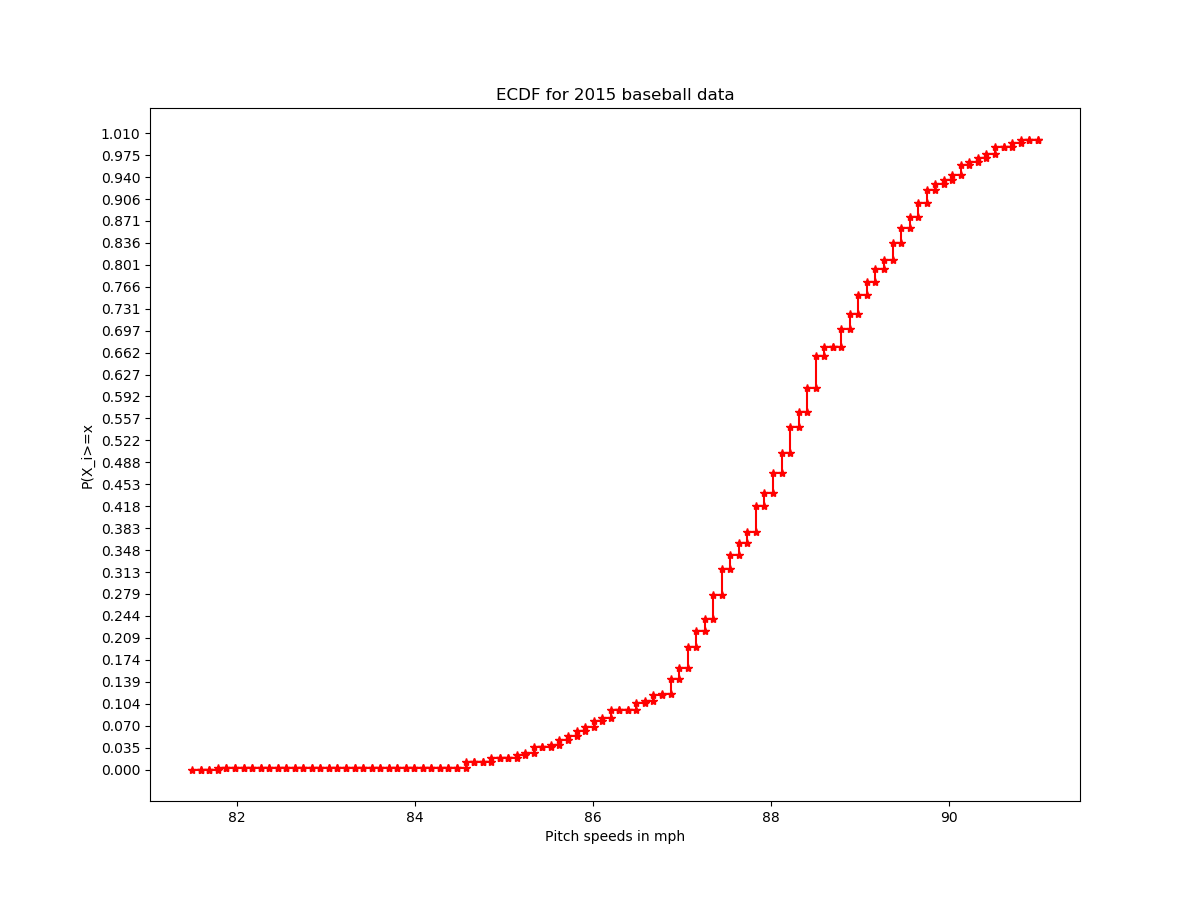
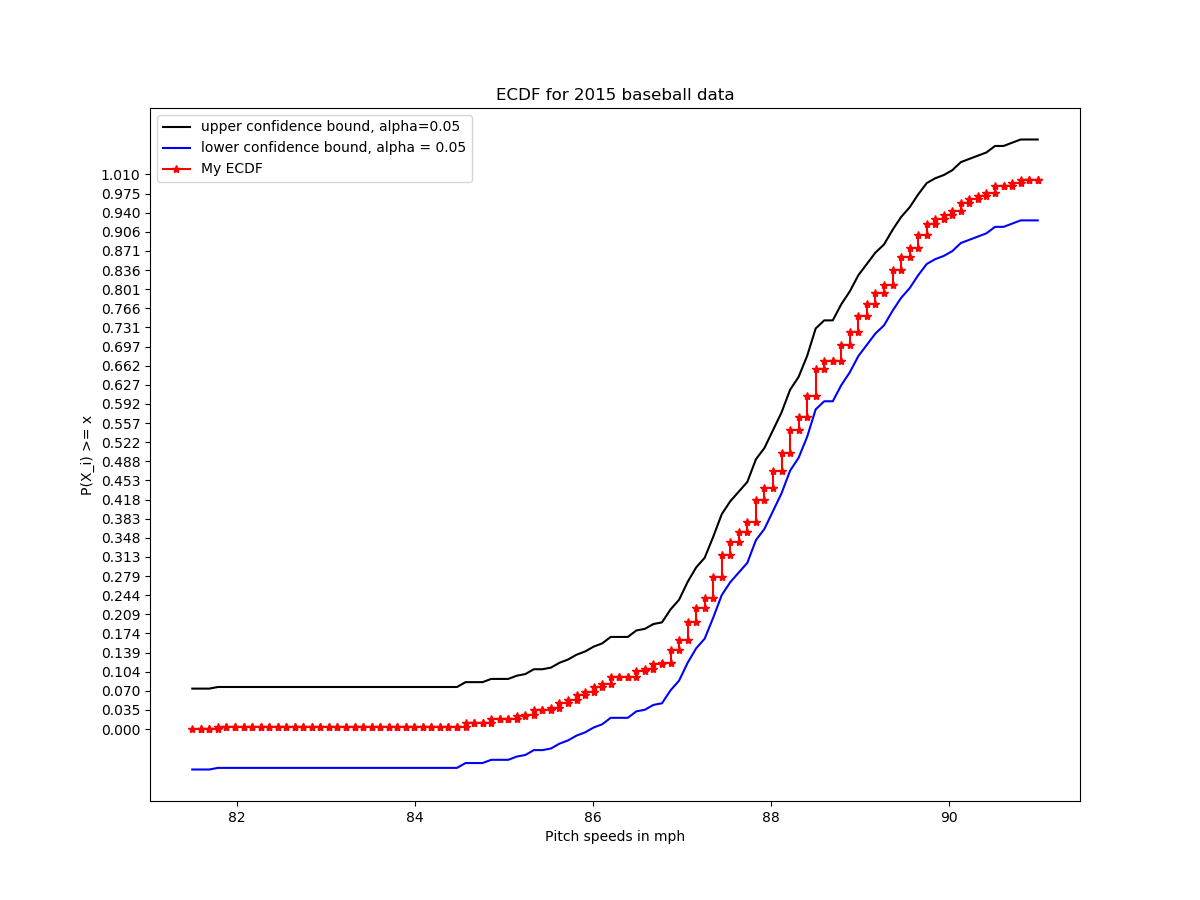
now plots with confidence bands, legends and labels

Changed region(s): [[0.185, 0.1556, 0.8633, 0.84], [0.0617, 0.1244, 0.4008, 0.8711], [0.1542, 0.8089, 0.4317, 0.8711]]

diff --git a/hw/baseballdata.py b/hw/baseballdata.py
@@ -3,7 +3,7 @@ import matplotlib
 matplotlib.use('Agg')
 import numpy as np
 import matplotlib.pyplot as plt  
-
+import math
 
 
 delim = ";"
@@ -26,7 +26,7 @@ for element in column_pairs:
     untreated_second_column.append(tempsplit[1])
    
 untreated_first_column.sort()
-untreated_second_column.sort()
+second_column = untreated_second_column.sort()
 
 first_column = untreated_first_column[untreated_first_column.count(''):]    
 
@@ -36,29 +36,55 @@ for element in first_column:
     if element not in first_singles: 
         first_singles.append(element)
 
-def ecdfys(dat_column_singles,dat_column,n):
+
+def ecdf(xs, data): 
     ys = [0]
-    for element in dat_column_singles: 
-        ys.append(ys[-1]+dat_column.count(element)/n)
+    temps = 0
+    for element in xs:
+        for x in data:
+            if float(x) <= float(element): 
+                temps+=1
+        ys.append(temps/len(data))
+              
+        temps =0
     return ys[1:]
 
+print(np.linspace(80,92,num=100))
+print(min(first_column), max(first_column))
 #the following code takes these two lists of lists and generates the graph.
-xs = [0]
-for i in range(0,len(first_column)):
-    if xs[-1] != float(first_column[i]):
-        xs.append(float(first_column[i]))
-xs1 = xs[1:]
+mu = np.mean([float(first_column[i]) for i in range(0,len(first_column))])
+sigma = math.sqrt(np.var([float(first_column[i]) for i in range(0,len(first_column))]))
+x = ecdf(np.random.normal(mu,sigma, size=100), first_column)
 
 
-dat_array = np.array(first_column)
-n1 = len(first_column) 
-#y1 = np.arange(start=1/n1, stop=(n1+1)/n1, step=1/n1) 
-plt.plot(X,CY)
+alpha = 0.05
+def epsilon_n(alpha,n):
+    output = math.sqrt((1/(2*n))*np.log(2/alpha))
+    return output 
+
+def upper(n,alpha,xs,data):
+    epsilon = epsilon_n(alpha,n)
+    upperbound = [max((ecdf(xs,data)[i]+epsilon),0) for i in range(0,len(xs))]
+    return upperbound 
+
+def lower(n,alpha,xs,data):
+    epsilon = epsilon_n(alpha,n) 
+    lowerbound = [min(ecdf(xs,data)[i]-epsilon,1) for i in range(0,len(xs))]
+    return lowerbound
+
+#upper_bound1 = upper(len(first_column), alpha,)
 
 
-#plt.plot(dat_array, y1)
-plt.figure(figsize=(27,13))
-plt.step(first_singles,ecdfys(first_singles,first_column,len(first_column)), 'r*', where='post')
+plt.figure(figsize=(12,9))
+plt.title("ECDF for 2015 baseball data")
+plt.yticks(np.linspace(0,1.01,num=30))
+plt.ylabel("P(X_i) >= x")
+plt.plot(np.linspace(81.5,91,num=100),upper(len(first_column),alpha,np.linspace(81.5,91,num=100),first_column), label='upper confidence bound, alpha=0.05', color='black')
+#plt.hist(x, bins= 200, normed=True, cumulative=True, label='CDF', histtype='step', alpha=0.55, color='k')
+plt.xlabel("Pitch speeds in mph")
+plt.plot(np.linspace(81.5,91,num=100),lower(len(first_column),alpha,np.linspace(81.5,91,num=100),first_column), label='lower confidence bound, alpha = 0.05', color='blue')
+#plt.step(first_singles,ecdfys(first_singles,first_column,len(first_column)), 'r*', where='post')
+plt.step(np.linspace(81.5,91,num=100), ecdf(np.linspace(81.5,91,num=100),first_column), 'r*', where='post', label='My ECDF')
+plt.legend(loc='upper left')
 plt.savefig("npECDF1.png")
-print(first_singles)
-print(ecdfys(first_singles,first_column,len(first_column)))
+
